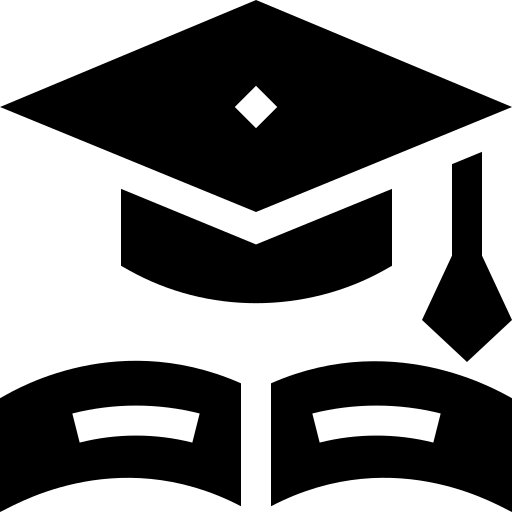
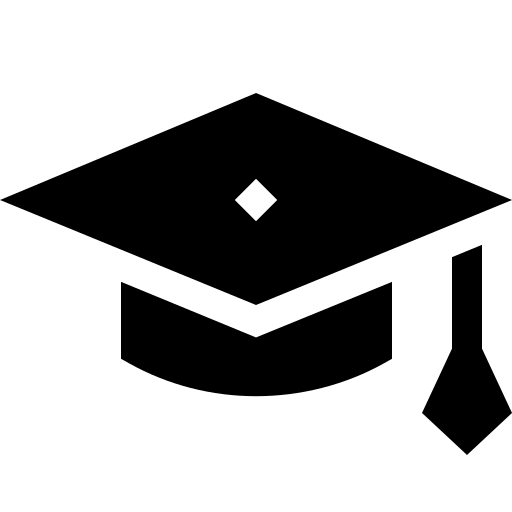
Adicionando base do calendario

diff --git a/www/index.html b/www/index.html
@@ -22,22 +22,62 @@
 </head>
 <body>
     <div class="navbar navbar-expand-lg navbar-dark bg-dark fixed-bottom" id="menu" data-container="menu">
-    <div class="row">
-      <div class="col-xs-12">
-        <ul>
-          <li><a href="#.html"> Home </a></li>
-          <li><a href="#.html"><img src="imagens/home.png" style="width: 35px; margin-top: -2%;"></a></li>
-          <li><a href="#.html"> Home </a></li>
-        </ul>
+      <div class="row">
+        <div class="col-xs-12">
+          <ul>
+            <li><a href="#.html"><img src="imagens/high-school.png" style="width: 30px; margin-top: -2%;" alt=""></a></li>
+            <li><a href="#.html"><img src="imagens/home.png" style="width: 40px; margin-top: -2%;"></a></li>
+            <li><a href="#.html"><img src="imagens/graduation.png" style="width: 30px; margin-top: -2%;" alt=""></a></li>
+          </ul>
+        </div>
       </div>
     </div>
-       
-    </div>
 
-  <div class="container">
+  <div class="container-fluid">
     <div class="row">
       <div class="col-xs-12">
-        
+        <h1 style="text-align: center;">Calendario</h1>
+        <p><b>- De 10/04 até as 15h do dia 15/05/2019 -</b> Inscrições do Processo Seletivo no site www.vestibulinhoetec.com.br</p>
+        <hr style="height:2px; border:none; color:#591516; background-color:#591516; margin-top: -5px; margin-bottom: 10px;">
+
+        <p><b>- A partir de 30/04/2019 -</b> Divulgação no site www.vestibulinhoetec.com.br do resultado da solicitação de redução da taxa de inscrição
+        </p>
+        <hr style="height:2px; border:none; color:#591516; background-color:#591516; margin-top: -5px; margin-bottom: 10px;">
+
+        <p><b>- De 30/04 até as 15h do dia 15/05/2019 -</b> Inscrição para quem solicitou a redução da taxa de inscrição</p>
+        <hr style="height:2px; border:none; color:#591516; background-color:#591516; margin-top: -5px; margin-bottom: 10px;">
+
+        <p><b>- 11/06/2019 -</b> Divulgação dos locais de Exame</p>
+        <hr style="height:2px; border:none; color:#591516; background-color:#591516; margin-top: -5px; margin-bottom: 10px;">
+
+        <p><b>- 16/06/2019, às 13h30min -</b> Exame</p>
+        <hr style="height:2px; border:none; color:#591516; background-color:#591516; margin-top: -5px; margin-bottom: 10px;">
+
+        <p><b>- 16/06/2019 (domingo), a partir das 18h -</b> Divulgação do gabarito oficial no site www.vestibulinhoetec.com.br</p>
+        <hr style="height:2px; border:none; color:#591516; background-color:#591516; margin-top: -5px; margin-bottom: 10px;">
+
+        <p><b>- 17/06/2019 (segunda-feira), a partir das 14h –</b> Divulgação do gabarito oficial para acesso as vagas remanescentes no site www.vestibulinhoetec.com.br.</p>
+        <hr style="height:2px; border:none; color:#591516; background-color:#591516; margin-top: -5px; margin-bottom: 10px;">
+
+        <p><b>- 18/06/2019 (terça-feira), a partir das 14h –</b> Divulgação do gabarito oficial dos Cursos de Especialização no site www.vestibulinhoetec.com.br.</p>
+        <hr style="height:2px; border:none; color:#591516; background-color:#591516; margin-top: -5px; margin-bottom: 10px;">
+
+        <p><b>- 05/07/2019 -</b> Divulgação da lista de classificação geral para os cursos técnicos com prova de aptidão</p>
+        <hr style="height:2px; border:none; color:#591516; background-color:#591516; margin-top: -5px; margin-bottom: 10px;">
+
+        <p><b>- 16/07/2019 -</b> Divulgação da lista de classificação geral dos demais cursos</p>
+        <hr style="height:2px; border:none; color:#591516; background-color:#591516; margin-top: -5px; margin-bottom: 10px;">
+
+        <p><b>- 17/07 e 18/07/2019 -</b> Divulgação da 1ª lista de convocação e matrícula</p>
+        <hr style="height:2px; border:none; color:#591516; background-color:#591516; margin-top: -5px; margin-bottom: 10px;">
+
+        <p><b>- 19/07/2019 -</b> Divulgação da 2ª lista de convocação</p>
+        <hr style="height:2px; border:none; color:#591516; background-color:#591516; margin-top: -5px; margin-bottom: 10px;">
+
+        <p><b>- 22/07 e 23/07/2019 -</b> Matrícula da 2ª lista de convocação</p><hr style="height:2px; border:none; color:#591516; background-color:#591516; margin-top: -5px; margin-bottom: 10px;">
+
+        <b>Valor da taxa de inscrição</b>
+        <p style="margin-bottom: 90px;">R$ 30,00 (trinta reais)</p>
       </div>
     </div>
   </div>

diff --git a/www/css/style.css b/www/css/style.css
@@ -45,6 +45,6 @@ a{
 
 li a:hover{
   color: black;
-  background-color: white;
+  background-color: black;
   padding: 10px 50px 10px 50px;
 }
